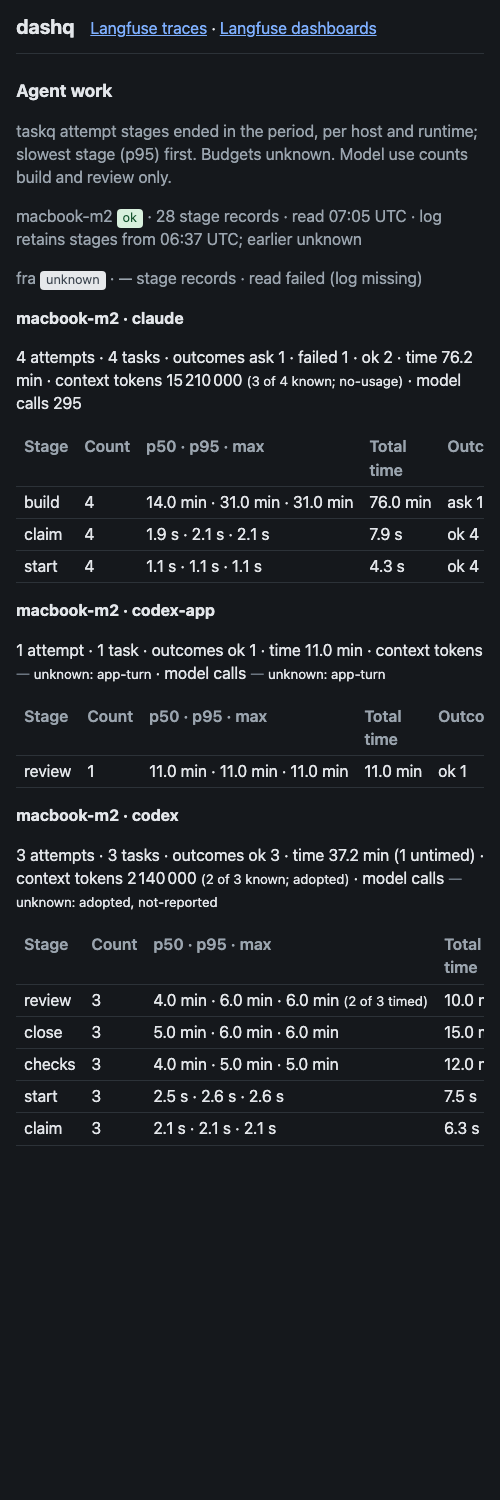
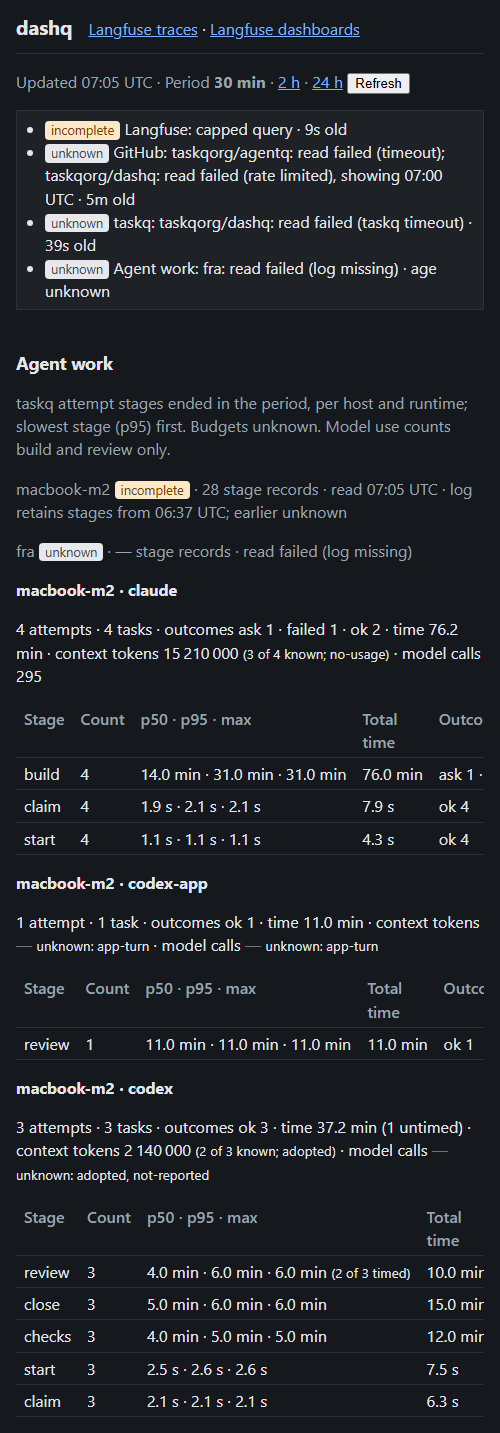
Read empty agent-work logs as unknown and skipped records as incomplete
A taskq.log without stage records observed nothing, so its host now
reads unknown ("no stage records in log") with records null instead of
ok with 0. Skipped corrupt records and a log that covers the period only
in part set the host source incomplete: true, and any incomplete host
sets the agent_work block incomplete: true. A period without rows says
"No attempt stages" only when the block is ok, else unknown with the
reason. The chain check covers each case; fixture and A3 pictures are
regenerated (macbook-m2 now reads incomplete: its log starts after the
window start).

Task: https://github.com/taskqorg/dashq/issues/136

Claude-Session: https://claude.ai/code/session_01LkjbnDbXxjxL1XhYbHJq44

diff --git a/fixture/page.html b/fixture/page.html
@@ -251,7 +251,7 @@
 <section id="agentwork">
 <h2>Agent work</h2>
 <p class="note">taskq attempt stages ended in the period, per host and runtime; slowest stage (p95) first. Budgets unknown. Model use counts build and review only.</p>
-<p class="note">macbook-m2 <span class="s ok">ok</span> · 28 stage records · read 07:05 UTC · log retains stages from 06:37 UTC; earlier unknown</p>
+<p class="note">macbook-m2 <span class="s warn">incomplete</span> · 28 stage records · read 07:05 UTC · log retains stages from 06:37 UTC; earlier unknown</p>
 <p class="note">fra <span class="s unknown">unknown</span> · — stage records · read failed (log missing)</p>
 <h3>macbook-m2 · claude</h3>
 <p>4 attempts · 4 tasks · outcomes ask 1 · failed 1 · ok 2 · time 76.2 min · context tokens 15 210 000 <small>(3 of 4 known; no-usage)</small> · model calls 295</p>

diff --git a/src/agent_work.rs b/src/agent_work.rs
@@ -72,10 +72,6 @@ pub fn build(inp: &Value) -> Value {
         let mut src = crate::data::source(snap, now, LIMIT, None);
         let all: Vec<&Value> = snap["value"]["records"].as_array().into_iter().flatten().collect();
         let corrupt = snap["value"]["corrupt"].as_u64().unwrap_or(0);
-        if corrupt > 0 && src["state"] == "ok" {
-            src["state"] = json!("incomplete");
-            src["reason"] = json!(format!("{corrupt} unreadable stage records skipped"));
-        }
         let retained = all.iter().filter_map(|r| r["at_ms"].as_u64()).min().map(|m| m / 1000);
         let win: Vec<&Value> = all.iter().copied().filter(|r| r["at_ms"].as_u64().is_some_and(|m| (from..=now).contains(&(m / 1000)))).collect();
         // the log is bounded (taskq.md § 4 Data): records before its oldest kept one are unknown, never absent
@@ -85,7 +81,18 @@ pub fn build(inp: &Value) -> Value {
             Some(r) if r > from => json!(format!("log retains stages from {}; earlier unknown", clock(r, now))),
             Some(_) => Value::Null,
         };
-        hosts.push(json!({"host": host, "source": src, "records": (!snap["value"].is_null()).then_some(win.len()), "retained_from": retained, "coverage": coverage}));
+        // a log without stage records observed nothing (no profiling taskq, or no attempt yet): unknown, never 0;
+        // skipped records or a partly covered window make the counts a lower bound: incomplete
+        let gaps: Vec<String> = (corrupt > 0).then(|| format!("{corrupt} unreadable stage records skipped")).into_iter().chain(coverage.as_str().map(String::from)).collect();
+        let observed = !snap["value"].is_null() && retained.is_some();
+        if !snap["value"].is_null() && !gaps.is_empty() {
+            src["incomplete"] = json!(corrupt > 0 || observed);
+            if src["state"] == "ok" {
+                src["state"] = json!(if observed { "incomplete" } else { "unknown" });
+                src["reason"] = json!(gaps.join("; "));
+            }
+        }
+        hosts.push(json!({"host": host, "source": src, "records": observed.then_some(win.len()), "retained_from": retained, "coverage": coverage}));
         for rt in RUNTIMES {
             let mine: Vec<&Value> = win.iter().copied().filter(|r| r["rt"] == rt).collect();
             if !mine.is_empty() {
@@ -98,7 +105,7 @@ pub fn build(inp: &Value) -> Value {
     rows.sort_by(|a, b| worst(b).total_cmp(&worst(a)));
     // the worst host names the block's state; one missing log never reads ok
     let bad = ["unknown", "unconfirmed", "stale", "incomplete"].iter().find_map(|st| hosts.iter().find(|h| h["source"]["state"] == *st));
-    let src = match (hosts.first(), bad) {
+    let mut src = match (hosts.first(), bad) {
         (None, _) => json!({"state": "unknown", "at": null, "age_s": null, "reason": "no log for this host filter", "incomplete": false}),
         (_, Some(h)) => {
             let mut s = h["source"].clone();
@@ -107,6 +114,8 @@ pub fn build(inp: &Value) -> Value {
         }
         (Some(h), None) => h["source"].clone(),
     };
+    // one host with skipped or uncovered records makes the block's counts a lower bound too
+    src["incomplete"] = json!(hosts.iter().any(|h| h["source"]["incomplete"] == true));
     json!({"source": src, "window_s": period, "from": from, "to": now, "hosts": hosts, "rows": rows})
 }
 
@@ -200,7 +209,7 @@ pub fn render(w: &mut String, doc: &Value) {
         let s = &h["source"];
         let state = s["state"].as_str().unwrap_or("unknown");
         let mut notes: Vec<String> = s["reason"].as_str().map(esc).into_iter().collect();
-        notes.extend(h["coverage"].as_str().map(esc));
+        notes.extend(h["coverage"].as_str().filter(|c| !s["reason"].as_str().is_some_and(|r| r.contains(c))).map(esc));
         let _ = writeln!(w, "<p class=\"note\">{} {} · {} stage records{}{}</p>", esc(h["host"].as_str().unwrap_or("")), crate::page::badge(state, state), h["records"].as_u64().map_or("—".into(), |r| r.to_string()),
             s["at"].as_u64().map(|t| format!(" · read {}", clock(t, now))).unwrap_or_default(), if notes.is_empty() { String::new() } else { format!(" · {}", notes.join(" · ")) });
     }
@@ -217,7 +226,12 @@ pub fn render(w: &mut String, doc: &Value) {
         let _ = writeln!(w, "</table>");
     }
     if a["rows"].as_array().is_none_or(|r| r.is_empty()) {
-        let _ = writeln!(w, "<p class=\"note\">No attempt stages in this period.</p>");
+        // a zero is shown only when every log covers the period; else what is missing reads unknown
+        let line = match (a["source"]["state"].as_str(), a["source"]["reason"].as_str()) {
+            (Some("ok"), _) => "No attempt stages in this period.".to_string(),
+            (_, why) => format!("Attempt stages in this period unknown: {}.", esc(why.unwrap_or("no reason"))),
+        };
+        let _ = writeln!(w, "<p class=\"note\">{line}</p>");
     }
     let _ = writeln!(w, "</section>");
 }
@@ -255,12 +269,17 @@ mod tests {
         let (value, _) = read(log.to_str().unwrap()).unwrap();
         assert_eq!((value["records"].as_array().unwrap().len(), value["corrupt"].as_u64()), (5, Some(1)), "only stage lines leave the log");
         let snap = json!({"value": value, "at": 2990, "error": null, "incomplete": false});
-        let doc = build(&json!({"now": 3000, "period": 1800, "filters": {}, "agent_work": {"mac": snap, "fra": {"value": null, "at": null, "error": "log missing", "incomplete": false}}}));
+        let empty = json!({"value": {"records": [], "corrupt": 0}, "at": 2990, "error": null, "incomplete": false});
+        let doc = build(&json!({"now": 3000, "period": 1800, "filters": {}, "agent_work": {"mac": snap, "fra": {"value": null, "at": null, "error": "log missing", "incomplete": false}, "win": empty}}));
         let _ = std::fs::remove_dir_all(&dir);
         let hosts = doc["hosts"].as_array().unwrap();
         assert_eq!((hosts[1]["host"].as_str(), hosts[1]["source"]["state"].as_str(), hosts[1]["records"].clone()), (Some("fra"), Some("unknown"), Value::Null));
-        assert_eq!(hosts[0]["source"]["reason"], "1 unreadable stage records skipped");
-        assert_eq!(doc["source"]["state"], "unknown", "a missing log is not ok");
+        assert_eq!((hosts[0]["source"]["state"].as_str(), hosts[0]["source"]["reason"].as_str(), hosts[0]["source"]["incomplete"].as_bool()), (Some("incomplete"), Some("1 unreadable stage records skipped"), Some(true)));
+        let w = &hosts[2]["source"];
+        assert_eq!((w["state"].as_str(), w["reason"].as_str(), hosts[2]["records"].clone()), (Some("unknown"), Some("no stage records in log"), Value::Null), "an empty log observed nothing: unknown, never ok/0");
+        assert_eq!((doc["source"]["state"].as_str(), doc["source"]["incomplete"].as_bool()), (Some("unknown"), Some(true)), "a missing log is not ok; skipped records leave the block incomplete");
+        let day = build(&json!({"now": 3000, "period": 86400, "filters": {"host": "mac"}, "agent_work": {"mac": snap}}));
+        assert_eq!((day["source"]["state"].as_str(), day["source"]["incomplete"].as_bool()), (Some("incomplete"), Some(true)), "a window the log covers only in part is a lower bound");
         let rows = doc["rows"].as_array().unwrap();
         assert_eq!(rows.iter().map(|r| r["runtime"].as_str().unwrap()).collect::<Vec<_>>(), ["claude", "codex"], "slowest first");
         let c = &rows[0];
@@ -275,6 +294,9 @@ mod tests {
         render(&mut html, &json!({"agent_work": doc, "generated_at": 3000}));
         assert!(html.contains("unknown: no-usage") && html.contains("none (no model)") && html.contains("1.0 min") && html.contains("log missing"), "{html}");
         assert!(!html.contains(">0<"), "{html}");
+        let mut nothing = String::new();
+        render(&mut nothing, &json!({"agent_work": build(&json!({"now": 3000, "period": 1800, "filters": {}, "agent_work": {"win": empty}}))}));
+        assert!(nothing.contains("Attempt stages in this period unknown: win: no stage records in log.") && !nothing.contains("No attempt stages"), "{nothing}");
         let mut none = String::new();
         render(&mut none, &json!({"agent_work": build(&json!({"now": 1, "period": 1800}))}));
         assert!(none.is_empty(), "unconfigured: no empty panel (D19)");

diff --git a/dashq.md b/dashq.md
@@ -194,5 +194,5 @@ Applies [built-in profiling](https://github.com/taskqorg/specq/blob/main/enginee
 ## D21. Agent work
 - Source: taskq attempt stage records (taskq.md § 4 Profiling, #1147): `taskq-stage` JSON lines of each configured local `taskq.log` (`taskq_logs`), the records `taskq profile` ranks; read without board access every 60 s, last value kept on failure (D6). Only valid stage, runtime, outcome, error and unknown codes count; other lines never leave the reader. Another host's stages need its log on this host; a host without one has no row.
 - Period: the D7 period by record end time (`at_ms`); the host filter applies. `/data.agent_work` `{source, window_s, from, to, hosts, rows}`: `hosts` per log `{host, source, records, retained_from, coverage}`; `rows` per host and runtime (`claude|codex|codex-app|other`), slowest stage p95 first: `attempts` (distinct attempt ids), `tasks`, `outcomes` (build/review hand-ins), `time_ms` (sum of timed stages), `untimed`, `tokens` and `calls` (build/review), `stages` slowest p95 first, each `{stage, count, timed, p50_ms, p95_ms, max_ms, total_ms, outcomes, errors, calls, tokens}`. Usage is `{sum, known, of, reasons}` with taskq's codes; `sum` only from reported values.
-- Unknown: a missing or unreadable log is `unknown`, skipped records `incomplete`, the worst host names the block state; a stage adopted across a service restart has no duration; unreported tokens or calls are null with reasons, `no-model` stages read `none (no model)`; a log retaining records only after the window start says earlier unknown. Never zero or ok. Budgets unknown.
+- Unknown: a missing or unreadable log, or one without stage records (no profiling taskq, no attempt yet), is `unknown` with `records` null; skipped records or a log retaining records only after the window start make the host `incomplete` (`incomplete: true`, counts a lower bound), and any incomplete host makes the block `incomplete: true`; the worst host names the block state; a period without rows reads `No attempt stages` only when the block is `ok`, else unknown with the reason; a stage adopted across a service restart has no duration; unreported tokens or calls are null with reasons, `no-model` stages read `none (no model)`; a log retaining records only after the window start says earlier unknown. Never zero or ok. Budgets unknown.
 - Page: the Agent work section after Agents, only when configured; one block per host and runtime. Owner acceptance from pictures (A3): [1280 light](docs/design/evidence/agent-work-1280-light.png), [1280 dark](docs/design/evidence/agent-work-1280-dark.png), [500 dark](docs/design/evidence/agent-work-500-dark.png) (fixture data).
